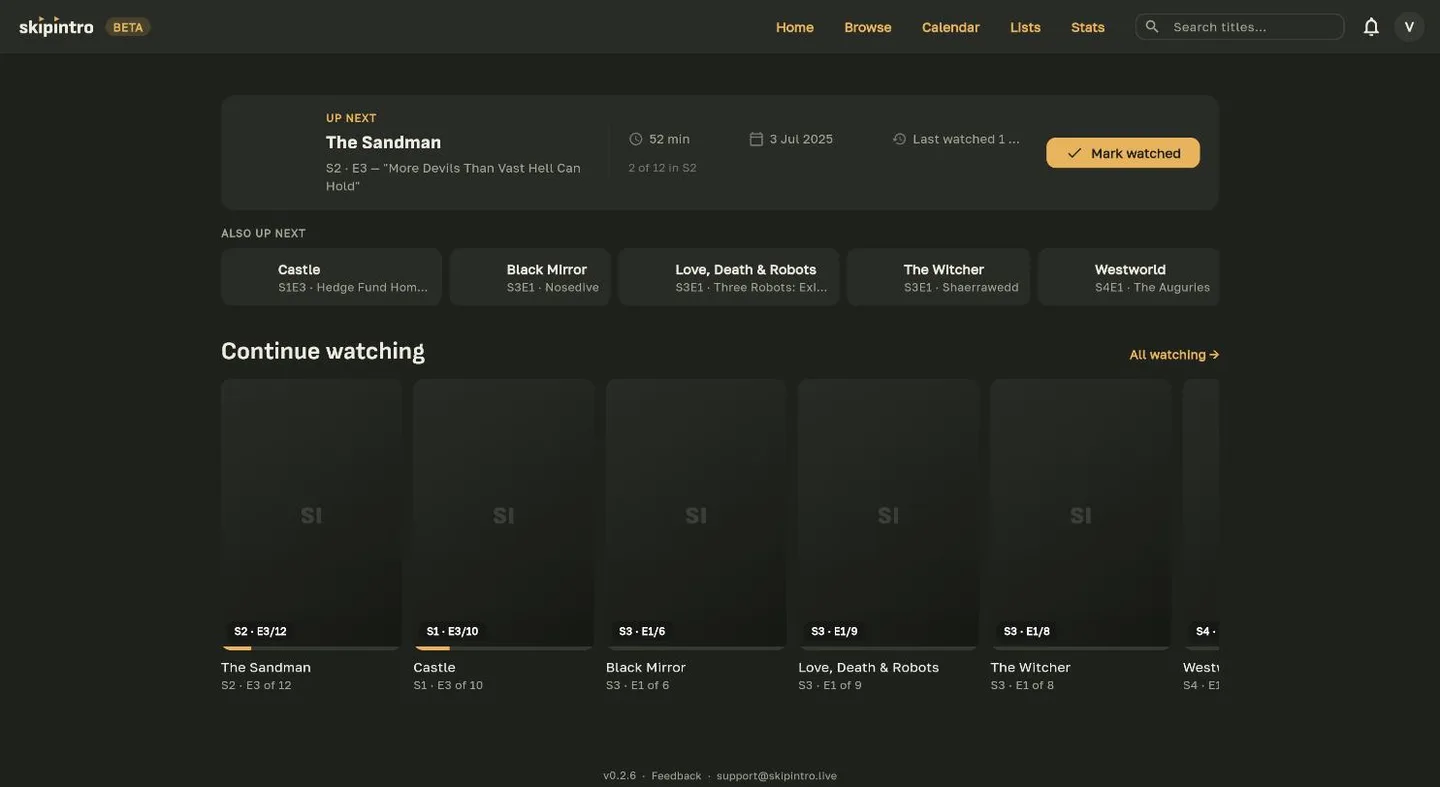
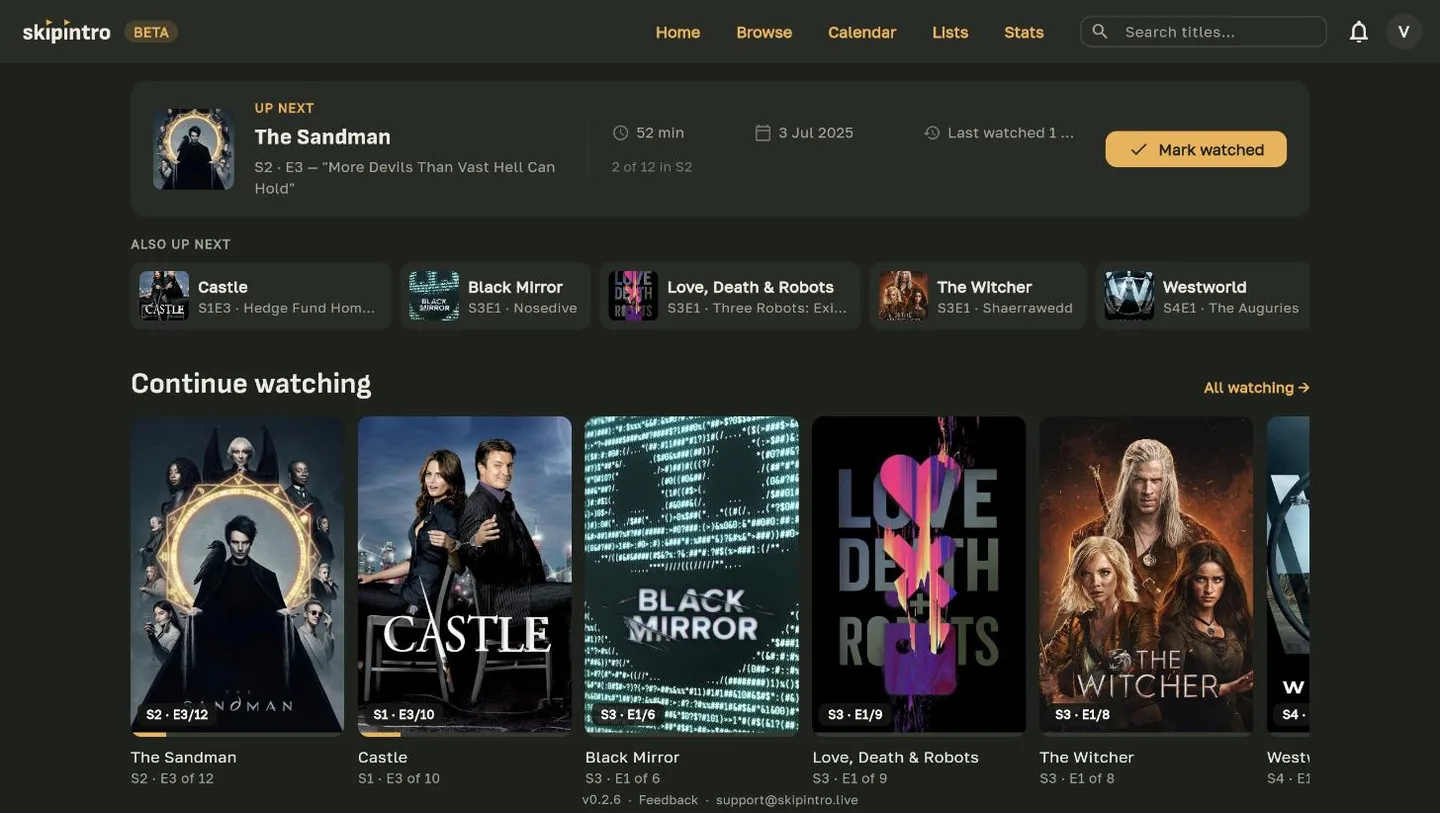
fix copyright glyph rendering, update skipintro screenshot

diff --git a/index.html b/index.html
@@ -72,7 +72,7 @@
 
           <article class="project project-reverse">
             <div class="shot">
-              <img src="assets/screenshots/skipintro.webp" alt="skipintro screenshot" loading="lazy" decoding="async" width="1440" height="787" />
+              <img src="assets/screenshots/skipintro.webp" alt="skipintro screenshot" loading="lazy" decoding="async" width="1440" height="813" />
             </div>
             <div class="project-body">
               <div class="project-meta">
@@ -181,7 +181,7 @@
             <span class="footer-label">Building something? Let's talk.</span>
             <a class="footer-mail" id="email-footer" href="#">&#109;&#97;&#105;&#108;&#64;&#118;&#99;&#104;&#117;&#98;&#46;&#100;&#101;&#118;</a>
           </div>
-          <span>&copy; 2026 vchub.dev</span>
+          <span class="copyright"><span class="mark">&copy;</span> 2026 vchub.dev</span>
         </footer>
       </div>
     </div>

diff --git a/styles.css b/styles.css
@@ -368,6 +368,12 @@ footer {
   font-size: 13px;
 }
 
+.copyright .mark {
+  font-family: var(--sans);
+  font-size: 13px;
+  vertical-align: -0.05em;
+}
+
 .footer-mail {
   font-family: var(--sans);
   font-size: clamp(17px, 1.9vw, 22px);
